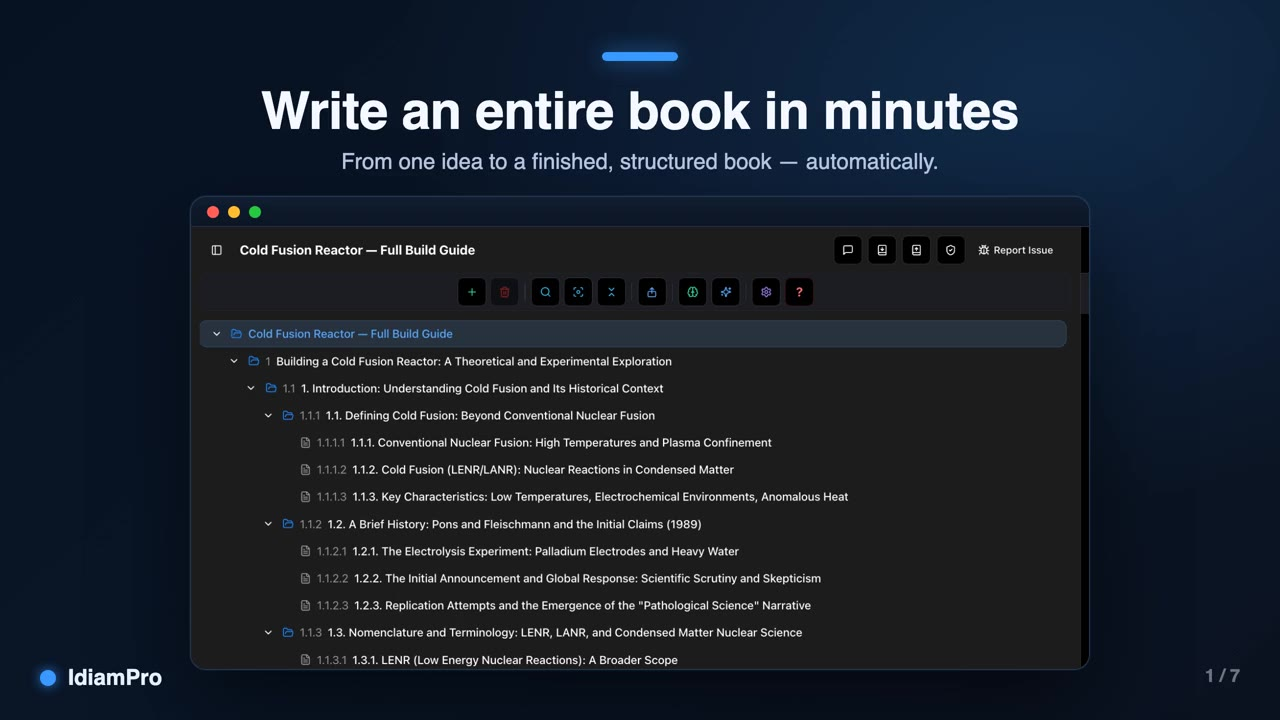
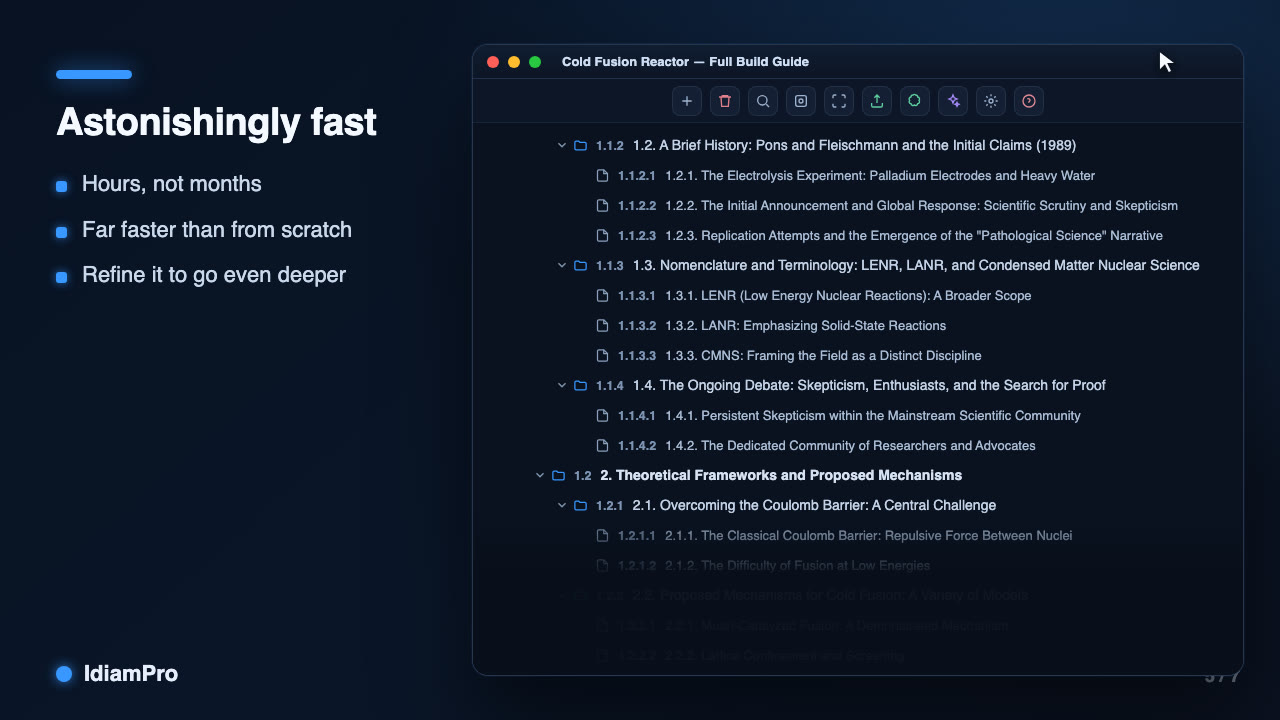
Workflows video rebuild: outline develops from one node, tutorial-style clicks, premium voice
Replaces the /workflows flagship video ("Write an entire book in minutes") with an
improved rebuild (owner's approved option B):

- Core: the cold-fusion outline visibly DEVELOPS from a single seed node into the
  full deep multi-level table of contents, in sync with the narration.
- Tutorial-style: a visible cursor moves to and clicks the real IdiamPro controls
  (the AI button -> the outline grows; the Generate/export button -> a generate menu
  and output cards for video/podcast/PDF appear). The click always precedes the result.
- Premium, expressive voiceover via OpenAI gpt-4o-mini-tts (warm "coral" voice) instead
  of the robotic on-device voice.
- Relative timing throughout (hours not months; "dramatically faster than writing from
  scratch"; exact time varies with refinement) — no fixed minute count.
- Merge beat: several sources (notes, PDF, web page) converge into the one outline.
- House style preserved (dark, blue accent, app-window frame, branded cover/outro,
  "Produced by IdiamPro").
- Privacy: only the clean cold-fusion "Full Build Guide" content appears; no sidebar,
  no real/private outline titles in any frame.
- Deterministic frame-sequence render for exact audio/video sync (1280x720, 24fps, ~76s).

Page copy updated to match the relative-speed framing; heading and caption unchanged.

diff --git a/src/app/workflows/page.tsx b/src/app/workflows/page.tsx
@@ -36,8 +36,9 @@ export default function WorkflowsPage() {
             Write an entire book in minutes
           </h1>
           <p className="mx-auto mt-4 max-w-2xl text-base text-white/60 sm:text-lg">
-            Watch one idea become a complete, deeply structured book — its table of contents,
-            every chapter, and finished formats like video, podcast, and PDF — all from a single outline.
+            Watch a single node grow into a complete, deeply structured book — its table of contents,
+            every chapter, and finished formats like video, podcast, and PDF — all from one outline.
+            It comes together dramatically faster than writing from scratch: hours, not months.
           </p>
         </div>
 